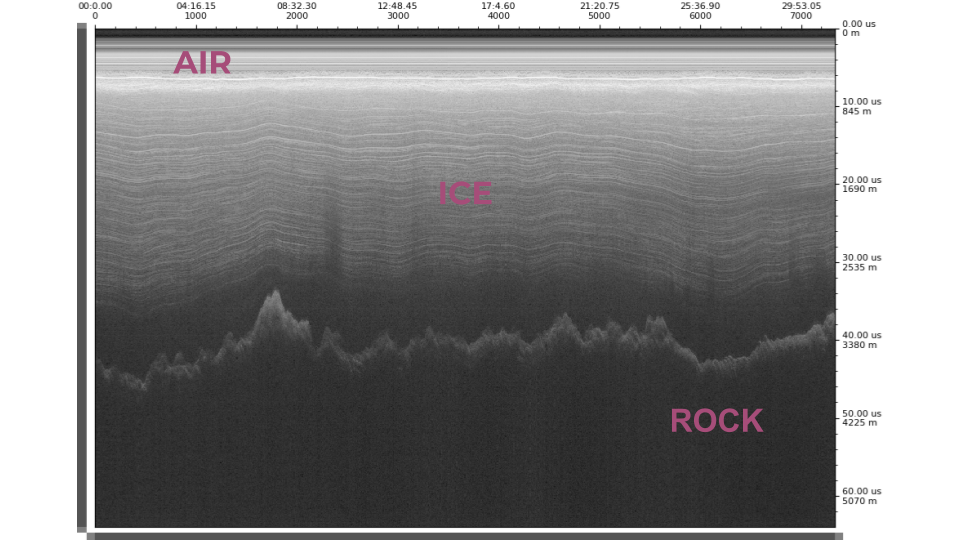
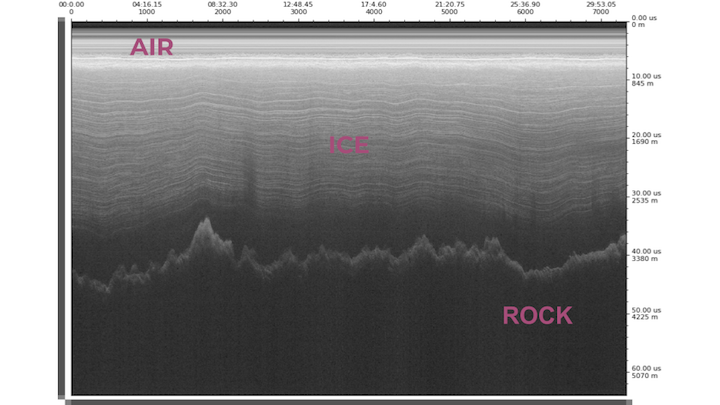
resize imgs

Changed region(s): [[0.0917, 0.9481, 0.1222, 0.9778]]

diff --git a/_posts/2018-06-19-into-to-ice-radar.md b/_posts/2018-06-19-into-to-ice-radar.md
@@ -8,17 +8,17 @@ The project that's most dear to my heart is the problem of auto-picking, or auto
 
 This human-powered picking is simple enough, really. You load up a radar image, draw the upper and lower boundaries of your feature of interest (the surface or bottom of the ice), and then run an algorithm that finds the strongest signal within those boundaries.
 
-![Picking Process]({{site.url}}{{site.baseurl}}/assets/ice_radar/picking_ex.png = 375x)
+![Picking Process]({{site.url}}{{site.baseurl}}/assets/ice_radar/picking_ex.png)
 
 Before we dive into the benefits of auto-picking, let's talk about what is actually going on in a radar image!
 
-![Anatomy of a radargram]({{site.url}}{{site.baseurl}}/assets/ice_radar/radargram_labels.png =375x)
+![Anatomy of a radargram]({{site.url}}{{site.baseurl}}/assets/ice_radar/radargram_labels.png)
 
 The radargram above is from the interior of Antarctica, so we can make out air, ice (plus a bunch of ice layers!), and rock. The surface of the ice is the bright, stable line near the top of the image (right below the word AIR). The bottom of the ice is the kind of jagged, bright region underneath the ice layers and above the darkness. These two features are what I want to use automation to detect.
 
 So how do we even get these images in the first place? Radar (plus other) equipment is mounted on an airplane (although there's recently been a push to mount the equipment on helicopters and drones) and then chirps, or transmits pulses, throughout the flight, listening for reflected energy. We can then convert the radar signal into an image, where each column of the image represents the returned signal (see the figure below, from [(1)](https://earthzine.org/2008/09/26/a-brief-history-of-radio-echo-sounding-of-ice/)). It's tempting at first to think of the axes of a radar image as spatial coordinates, which isn't necessarily *wrong*, but if we want to be precise, the x-axis represents the transmission time of each radar pulse and the y-axis represents the time delay of each record.
 
-![Radar signal]({{site.url}}{{site.baseurl}}/assets/ice_radar/radar_signal.png =375x)
+![Radar signal]({{site.url}}{{site.baseurl}}/assets/ice_radar/radar_signal.png)
 
 Anyway, back to the problem of auto-picking!  
 
@@ -26,13 +26,13 @@ I said earlier that the picking process is simple, which is often true. But let'
 
 In addition to the time consuming nature of the picking process, sometimes radar data can be extremely messy, which can lead to... interesting interpretations when picked by people of varying levels of comfort with radar image analysis. Often the radar will reflect off a surface that is not the bottom of the ice (like water, buildings, crevasses, ice shelf edges) and it can be incredibly difficult to determine what's a reflection and what's the bed. I'm quite possibly The Leading Expert on analyzing radar images but back when I was a beginner I definitely made the mistake of determining that a reflection of the ocean's surface was actually bedrock. 
 
-![Some messier radargrams]({{site.url}}{{site.baseurl}}/assets/ice_radar/messy_rgs.png =375x)
+![Some messier radargrams]({{site.url}}{{site.baseurl}}/assets/ice_radar/messy_rgs.png)
 
 The most obvious application of radar data is determining how thick ice is, but we can use it to gather so much more useful information! We can determine the roughness of the underlying bedrock, track changes in the grounding zone (where ice changes from being grounded to floating on water), and detect and characterize subglacial water (did you know that subglacial *swamps* are a thing??). [(3)](https://pangea.stanford.edu/radio-glaciology/radar-sounder-data-analysis)
 
 Detecting subglacial water is especially important because it allows geophysicists to better understand the melt risk for glaciers with a lot of sea level potential. [(4)](https://www.scienceworldreport.com/articles/8053/20130710/subglacial-antarctic-swamp-discovered-beneath-florida-sized-glacier.htm) There are several methods for subglacial water detection, but generally we use the basal reflectivity and specularity of the bed. [(2)](http://rsta.royalsocietypublishing.org/content/374/2059/20140297) These values cannot be computed until the radargram has been picked (as we need to know *where* the bed actually is).
 
-![Subglacial Lake Totten]({{site.url}}{{site.baseurl}}/assets/ice_radar/sg_lakes.png =375x)
+![Subglacial Lake Totten]({{site.url}}{{site.baseurl}}/assets/ice_radar/sg_lakes.png)
 
 Now that you know a little bit about ice radar and what we can learn from it, I hope you'll share my enthusiasm for auto-picking! This project is still very much a work in progress, but I've learned a lot from it so far and I'm looking forward to sharing that knowledge with you in the future!
 
